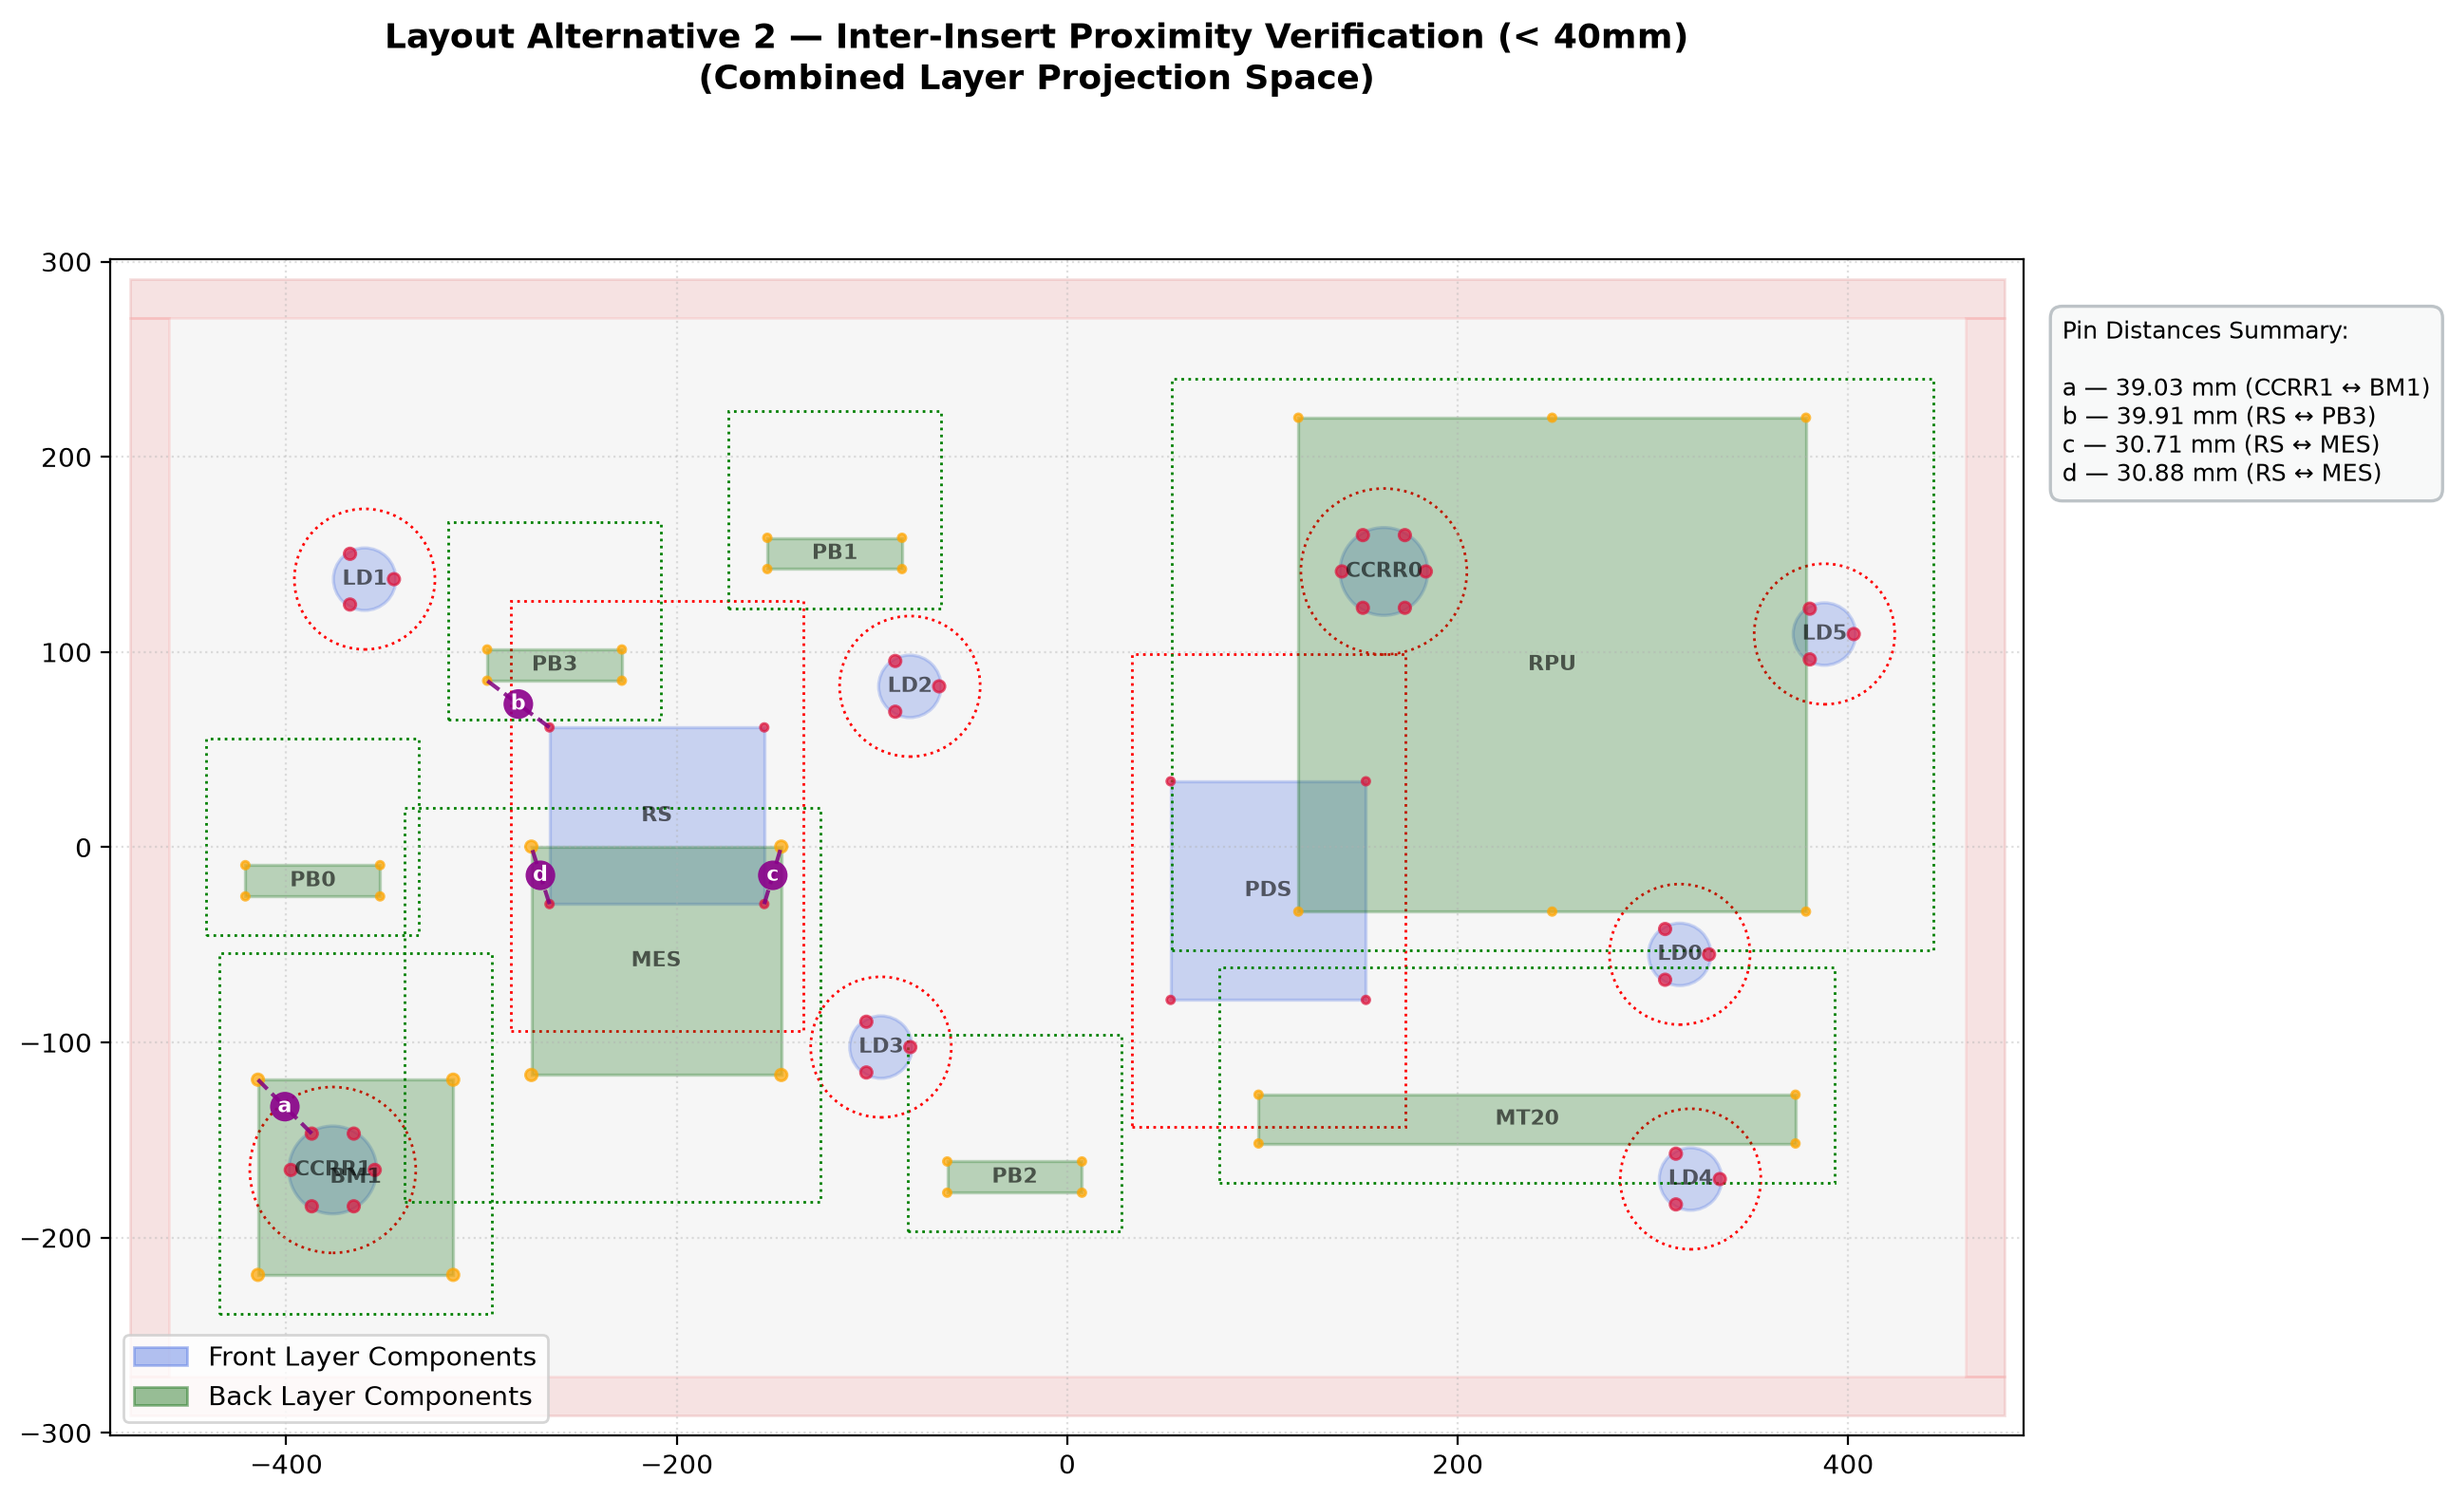
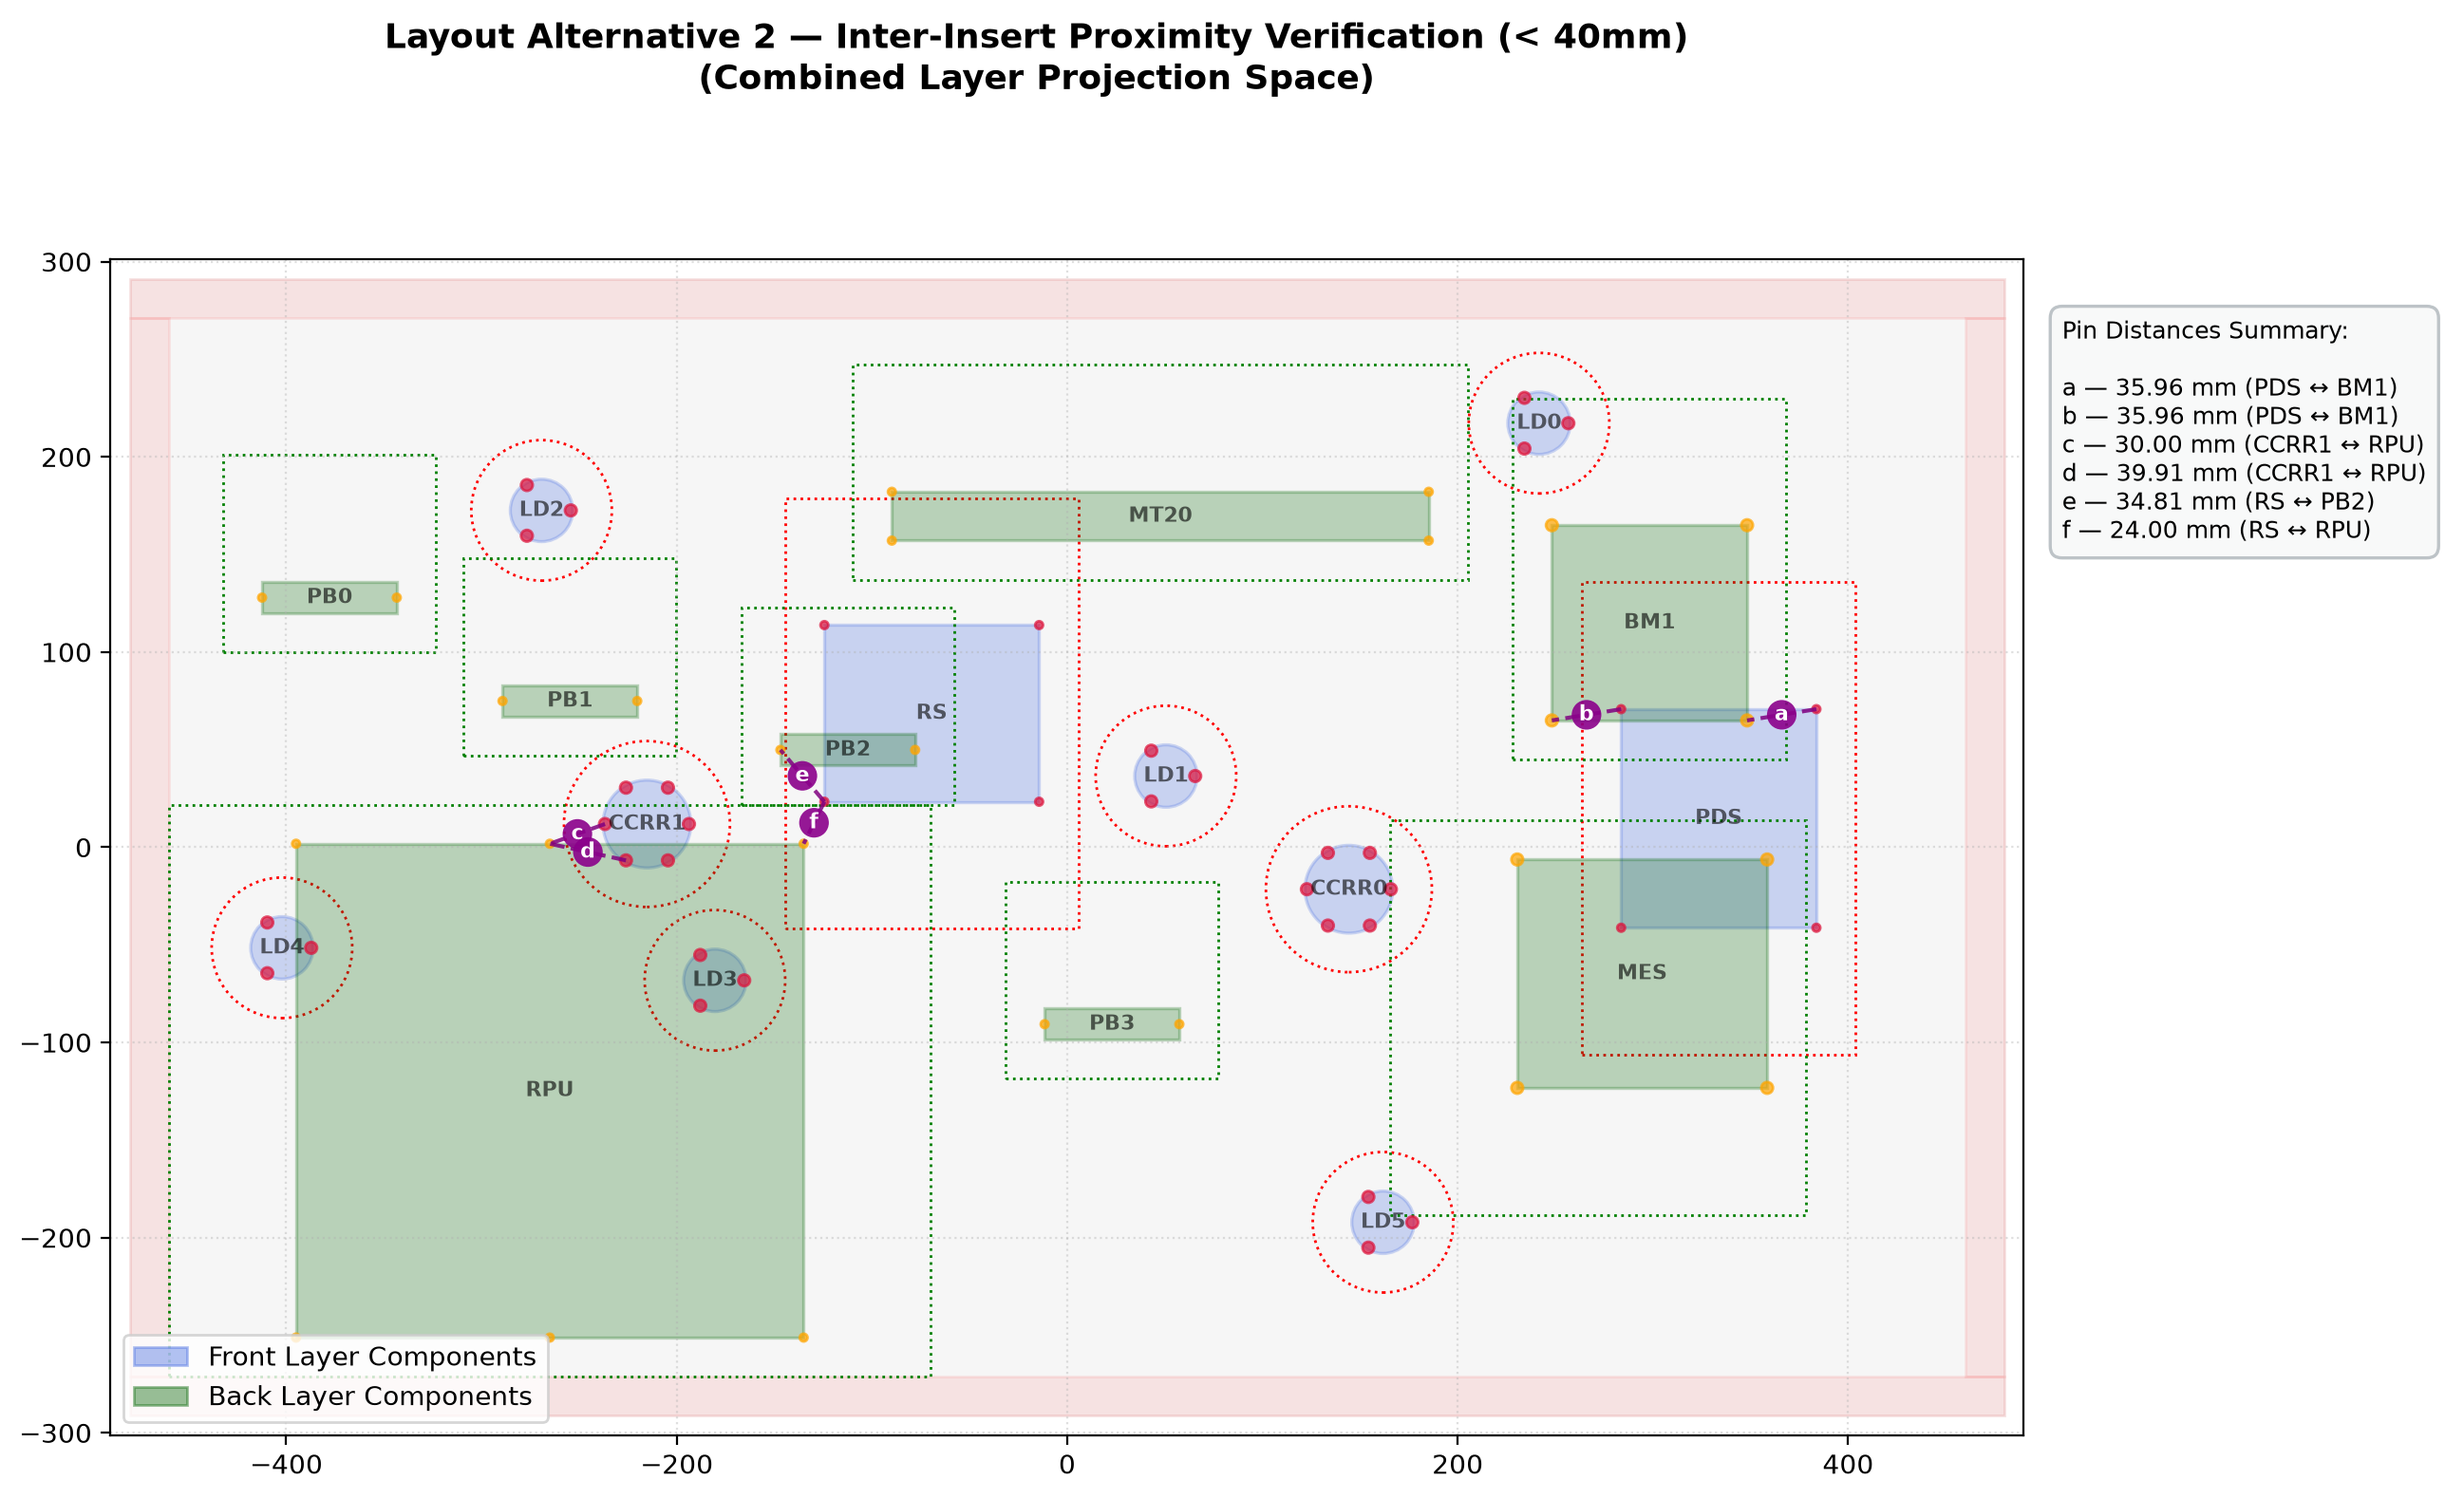
pb 2 insert done. tol 1mm

diff --git a/office/new.py b/office/new.py
@@ -13,7 +13,7 @@ from numba import njit, prange
 warnings.filterwarnings("ignore")
 
 # ================= STRUCTURAL CONFIGURATION ==================
-CG_TOLERANCE = 5.0  # mm: Target combined center of gravity
+CG_TOLERANCE = 1.0  # mm: Target combined center of gravity
 OUTPUT_DIR = "optimized_layouts"
 os.makedirs(OUTPUT_DIR, exist_ok=True)
 
@@ -221,7 +221,13 @@ def run_optimization():
             insert_qty = int(component.get('Insert qty', 4))
             half_l, half_w = length / 2.0, width / 2.0
             
-            if insert_qty == 6:
+            if insert_qty == 2:
+                # Place inserts at the midpoints of the shorter sides
+                if length >= width:
+                    offsets = [(half_l, 0.0), (-half_l, 0.0)]
+                else:
+                    offsets = [(0.0, half_w), (0.0, -half_w)]
+            elif insert_qty == 6:
                 offsets = [(half_l, half_w), (half_l, -half_w), (-half_l, half_w), (-half_l, -half_w)]
                 if length >= width:
                     offsets.extend([(0.0, half_w), (0.0, -half_w)])
